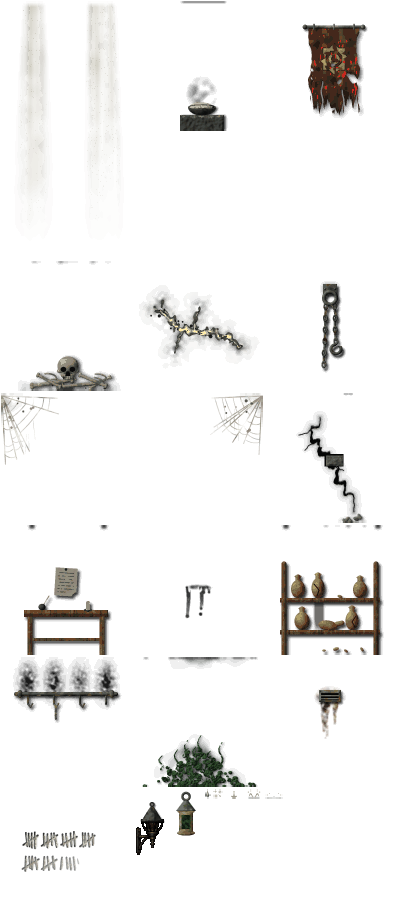
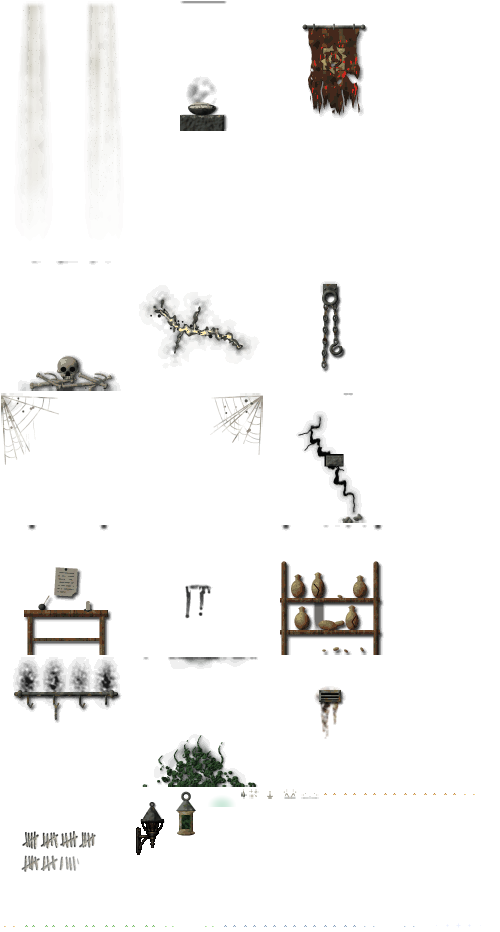
Load dark-fx eyes and glints from Artie's fx atlas.
Replace the generated fx sheet with Artie's f56a7e4 atlas (37 proto3d/fx/dark frames) and look those frames up on the sheet instead of fetching each PNG.

diff --git a/tests/e2e/atlas-skip.spec.ts b/tests/e2e/atlas-skip.spec.ts
@@ -1,6 +1,8 @@
+import { mkdirSync } from 'fs';
 import { test, expect, devices } from '@playwright/test';
 
 const BASE_URL = 'http://127.0.0.1:4173/sunken-keep';
+const OUT = '/opt/cursor/artifacts/screenshots';
 
 type Boot = {
   skipToPlayableMs?: number | null;
@@ -10,10 +12,35 @@ type Boot = {
   pendingFirstFightSounds?: string[];
 };
 
+type Proto3d = {
+  boot: () => Boot;
+  setPosition: (x: number, y: number, dir: number) => void;
+  snuffFacing: () => void;
+  isSquareLit: (x: number, y: number) => boolean;
+  darkFx: () => {
+    eyes: Array<{ x: number; y: number; monster: string; tint: string; visible: boolean }>;
+    glints: Array<{ x: number; y: number; item: string; visible: boolean }>;
+    stairs: number;
+  };
+};
+
 test.use({ ...devices['iPhone 15'], hasTouch: true, isMobile: true });
 
-test('New Game skip to first fight has no packed-frame single-file loads', async ({ page }) => {
+function pngReport() {
+  const boot = (window as unknown as { __proto3d: Proto3d }).__proto3d.boot();
+  const pngs = boot.imagePngs ?? [];
+  return {
+    leaks: boot.atlasLeaks ?? ['missing'],
+    fallbacks: boot.atlasFallbacks ?? [],
+    pngCount: pngs.length,
+    pngs,
+    darkSingles: pngs.filter((p) => p.startsWith('proto3d/fx/dark/'))
+  };
+}
+
+test('New Game skip to first fight then dark corridor has no packed-frame single-file loads', async ({ page }) => {
   test.setTimeout(120000);
+  mkdirSync(OUT, { recursive: true });
   await page.goto(`${BASE_URL}/proto3d.html`);
   await page.waitForFunction(
     () => {
@@ -55,14 +82,69 @@ test('New Game skip to first fight has no packed-frame single-file loads', async
     null,
     { timeout: 8000 }
   );
-  const report = await page.evaluate(() => {
-    const boot = (window as unknown as { __proto3d: { boot: () => Boot } }).__proto3d.boot();
+  const firstFight = await page.evaluate(pngReport);
+  console.log('ATLAS first fight', {
+    pngCount: firstFight.pngCount,
+    leaks: firstFight.leaks,
+    darkSingles: firstFight.darkSingles
+  });
+  expect(firstFight.leaks, `packed frames loaded as singles: ${firstFight.leaks.join(', ')}`).toEqual([]);
+  expect(firstFight.darkSingles, 'no fx/dark frame as a single file at first fight').toEqual([]);
+  expect(firstFight.pngCount).toBeGreaterThan(0);
+
+  // Beam-hall rat eyes at (10,1); snuff the start torch so the (2,5) key glints in the dark.
+  await page.evaluate(() => {
+    const p = (window as unknown as { __proto3d: Proto3d }).__proto3d;
+    p.setPosition(1, 6, 3);
+    p.snuffFacing();
+    p.setPosition(13, 1, 3);
+  });
+  await page.waitForFunction(
+    () => {
+      const p = (window as unknown as { __proto3d: Proto3d }).__proto3d;
+      const fx = p.darkFx();
+      const ratEyes = fx.eyes.find((e) => e.x === 10 && e.y === 1);
+      const keyGlint = fx.glints.find((g) => g.x === 2 && g.y === 5 && g.item === 'key');
+      return (
+        p.isSquareLit(10, 1) === false &&
+        p.isSquareLit(2, 5) === false &&
+        ratEyes?.visible === true &&
+        keyGlint?.visible === true
+      );
+    },
+    null,
+    { timeout: 8000 }
+  );
+  await page.waitForTimeout(220);
+  await page.screenshot({ path: `${OUT}/atlas_dark_corridor_eyes.png`, fullPage: false });
+
+  const dark = await page.evaluate(() => {
+    const p = (window as unknown as { __proto3d: Proto3d }).__proto3d;
+    const boot = p.boot();
+    const pngs = boot.imagePngs ?? [];
     return {
       leaks: boot.atlasLeaks ?? ['missing'],
       fallbacks: boot.atlasFallbacks ?? [],
-      pngCount: boot.imagePngs?.length ?? -1
+      pngCount: pngs.length,
+      pngs,
+      darkSingles: pngs.filter((path) => path.startsWith('proto3d/fx/dark/')),
+      ratLit: p.isSquareLit(10, 1),
+      keyLit: p.isSquareLit(2, 5),
+      fx: p.darkFx()
     };
   });
-  expect(report.leaks, `packed frames loaded as singles: ${report.leaks.join(', ')}`).toEqual([]);
-  expect(report.pngCount).toBeGreaterThan(0);
+  console.log('ATLAS dark corridor', {
+    pngCount: dark.pngCount,
+    leaks: dark.leaks,
+    darkSingles: dark.darkSingles,
+    ratLit: dark.ratLit,
+    keyLit: dark.keyLit,
+    eyes: dark.fx.eyes.filter((e) => e.visible),
+    glints: dark.fx.glints.filter((g) => g.visible)
+  });
+  expect(dark.leaks, `packed frames loaded as singles in dark corridor: ${dark.leaks.join(', ')}`).toEqual([]);
+  expect(dark.darkSingles, 'no fx/dark frame loads as a single file').toEqual([]);
+  expect(dark.fx.eyes.find((e) => e.x === 10 && e.y === 1)?.visible, 'rat eyes show in the dark').toBe(true);
+  expect(dark.fx.glints.find((g) => g.item === 'key')?.visible, 'key glint shows in the dark').toBe(true);
+  expect(dark.pngCount).toBeGreaterThan(0);
 });

diff --git a/tests/atlas.test.ts b/tests/atlas.test.ts
@@ -54,8 +54,12 @@ describe('floor 1 sprite atlases', () => {
     expect(lookupFrame('proto3d/atmo/water_edge.png')).toBeNull();
     expect(lookupFrame('proto3d/atmo/water_line.png')).toBeNull();
     expect(lookupFrame('proto3d/tex3d/wall_plain.png')).toBeNull();
-    expect(lookupFrame('proto3d/fx/dark/eyes_green_1.png')).toBeNull();
+    expect(lookupFrame('proto3d/fx/dark/eyes_green_1.png')?.sheet).toBe('fx');
+    expect(lookupFrame('proto3d/fx/dark/glint_1.png')?.sheet).toBe('fx');
+    expect(lookupFrame('proto3d/fx/dark/stairs_glow.png')?.sheet).toBe('fx');
     expect(lookupFrame('art/intro/shot1_keep.png')).toBeNull();
+    const darkFrames = Object.keys(readMap('fx').frames).filter((p) => p.startsWith('proto3d/fx/dark/'));
+    expect(darkFrames).toHaveLength(37);
   });
 
   it('scales dust’s 2×2 cells onto its fx-sheet rect', () => {
@@ -104,7 +108,12 @@ describe('floor 1 sprite atlases', () => {
       'proto3d/atmo/dust.png',
       'proto3d/atmo/desk_note.png',
       'art/dungeon/monsters_v2/slime_idle_1_near.png',
-      'art/fx/hits/resist_goo_1_near.png'
+      'art/fx/hits/resist_goo_1_near.png',
+      'proto3d/fx/dark/eyes_amber_1.png',
+      'proto3d/fx/dark/eyes_green_1.png',
+      'proto3d/fx/dark/eyes_pale_1.png',
+      'proto3d/fx/dark/glint_1.png',
+      'proto3d/fx/dark/stairs_glow.png'
     ];
     for (const path of skipPacked) {
       expect(lookupFrame(path), path).toBeTruthy();

diff --git a/src/proto3d/dark-fx.ts b/src/proto3d/dark-fx.ts
@@ -10,7 +10,7 @@ import {
   isWaterTile,
   tileBedY
 } from './constants';
-import { loadTextureCached } from './asset-cache';
+import { loadSpriteTexture } from './atlas';
 import { FloorData, Tile } from './types';
 import { SpriteManager } from './sprites';
 import { VertexLightingManager } from './vertex-lighting';
@@ -96,9 +96,8 @@ export class DarkFx {
   private glowMap: THREE.Texture | null = null;
 
   async load(scene: THREE.Scene, floorData: FloorData, sprites: SpriteManager) {
-    const baseUrl = import.meta.env.BASE_URL;
     const loadTex = async (path: string) => {
-      const tex = await loadTextureCached(`${baseUrl}${path}`);
+      const tex = await loadSpriteTexture(path);
       configureFxTexture(tex);
       return tex;
     };

diff --git a/scripts/pack-atlases.py b/scripts/pack-atlases.py
@@ -5,8 +5,9 @@ groups={'monsters':sorted(os.path.relpath(f,P) for f in glob.glob(P+'art/dungeon
  'portraits':[f for f in title if f.startswith('art/portraits/')],
  'ui':[f for f in title if f.startswith('art/ui/') and not f.startswith('art/ui/title/')],
  'props':[f for f in title if f.startswith(('art/dungeon/','art/fx/hits/','proto3d/tex3d/torch/'))],
- # water_edge / water_line stay single files (RepeatWrapping). Darkness / wall / water tiles too.
- 'fx':[f for f in title if f.startswith('proto3d/atmo/') and not f.endswith(('water_edge.png','water_line.png'))]}
+ # water_edge / water_line stay single files (RepeatWrapping). Wall / water tiles too.
+ # fx: dark-fx eyes/glints/stairs_glow + non-tiling atmo props.
+ 'fx':[f for f in title if (f.startswith('proto3d/atmo/') and not f.endswith(('water_edge.png','water_line.png'))) or f.startswith('proto3d/fx/dark/')]}
 PAD=2; MAX=2048; out={}
 def pack(files,W):
     items=sorted(files,key=lambda f:(-Image.open(P+f).size[1],f)); pl={}; x=y=rowh=0; maxw=0
